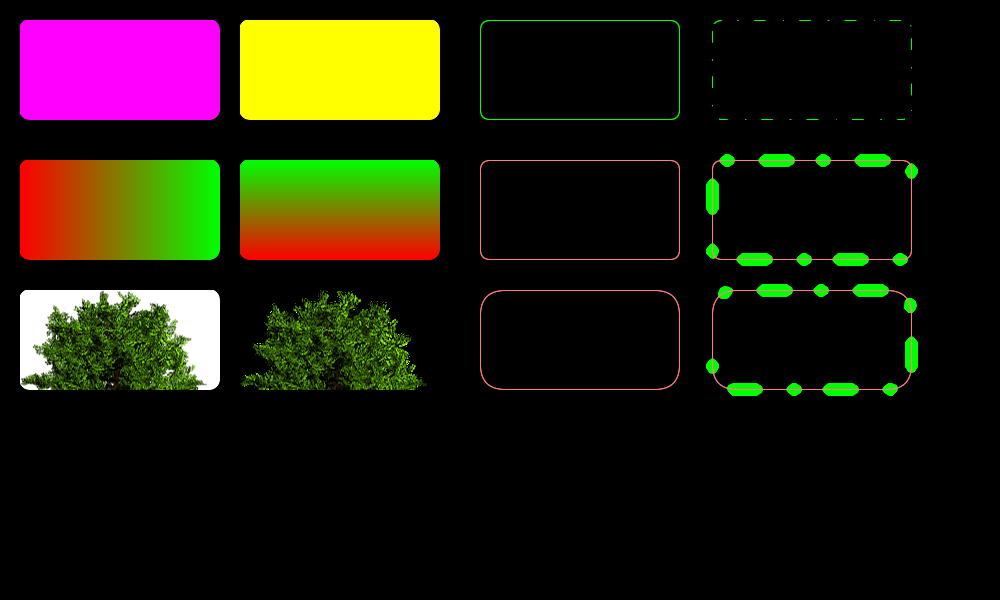
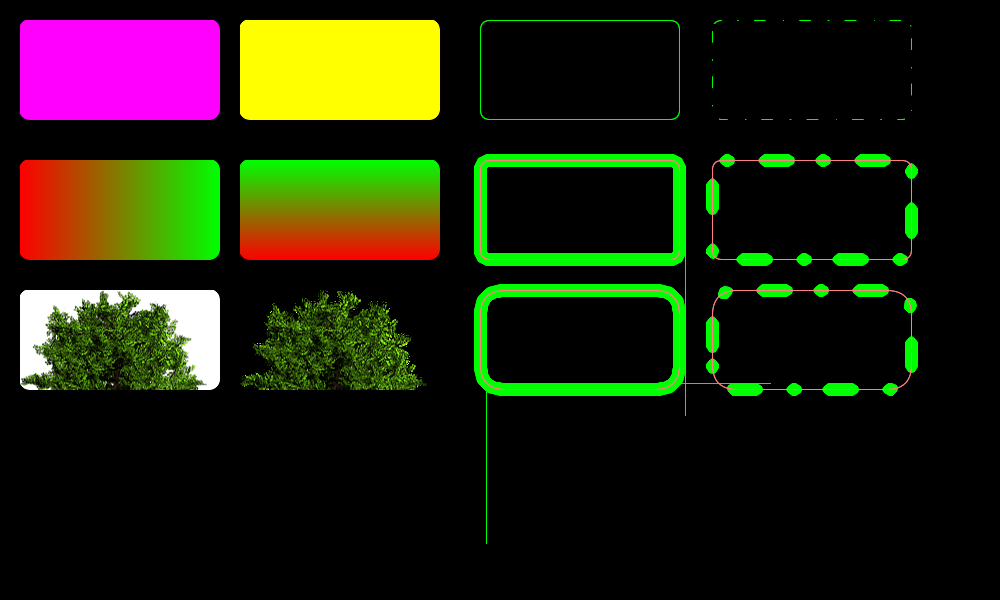
Working on patterned thick lines

Changed region(s): [[0.465, 0.24, 0.744, 0.66], [0.899, 0.33, 0.93, 0.39]]

diff --git a/src/Pt-Gfx/ImagePainter2.cpp b/src/Pt-Gfx/ImagePainter2.cpp
@@ -94,9 +94,23 @@ static inline bool intersectLine(bool& inLine, PointF& intersect, const PointF& 
     const float b2    = x21 - x22;
     const float c2    = -(x21 * y22 - x22 * y21);
 
-    // Check if there is intersection
+    // Check if the line is parallel
     const float denom = a1 * b2 - a2 * b1;
-    if(denom == 0.0f) return false;
+    if(denom == 0.0f) {
+        // Check for special cases
+        if(y11 == y12 && y11 == y21 && y11 == y22 && x12 == x21) {
+            intersect.set(x12, y11);
+            inLine = true;
+            return true;
+        }
+        if(x11 == x12 && x11 == x21 && x11 == x22 && y12 == y21) {
+            intersect.set(x11, y12);
+            inLine = false;
+            return true;
+        }
+        // No intersection
+        return false;
+    }
 
     // Calculate the intersection point
     const float idenom = 1.0f / denom;
@@ -294,9 +308,8 @@ static inline bool bboxDetectPolygonIntersection(const PointF* poly1, size_t pol
 
 static inline bool detectPolygonIntersection(const PointF* poly1, size_t poly1Count, const PointF* poly2, size_t poly2Count)
 {
-    //  return false;
-    //return bboxDetectPolygonIntersection (poly1, poly1Count, poly2, poly2Count);
-    return satDetectPolygonIntersection  (poly1, poly1Count, poly2, poly2Count);
+    return bboxDetectPolygonIntersection (poly1, poly1Count, poly2, poly2Count);
+    //return satDetectPolygonIntersection  (poly1, poly1Count, poly2, poly2Count);
     //return naiveDetectPolygonIntersection(poly1, poly1Count, poly2, poly2Count);
 }
 
@@ -330,6 +343,7 @@ static inline void generateQuadraticBezierPoints(std::vector<PointF>& dst, float
     const float nSegs1 = 1.0f / (nSegs - 1);
 
     for(Pt::int32_t i = 0; i < nSegs; ++i) {
+        // Calculate the coordinates
         const float t  = i * nSegs1;
         const float it = 1.0f - t;
         const float a  = it * it;
@@ -337,7 +351,10 @@ static inline void generateQuadraticBezierPoints(std::vector<PointF>& dst, float
         const float c  = t * t;
         const float x  = a * x1 + b * x2 + c * x3;
         const float y  = a * y1 + b * y2 + c * y3;
-        if( dst.empty() || dst.back().x() != x || dst.back().y() != y ) dst.push_back( PointF(x, y) );
+        // Check if the coordinate is the same with the previous one
+        if( !dst.empty() && ( dst.back().x() == x && dst.back().y() == y ) ) continue;
+        // Store the coordinate
+        dst.push_back( PointF(x, y) );
     }
 }
 
@@ -796,8 +813,6 @@ void ImagePainter2::drawRoundRect( const RectF& rect, float radius )
     const float x2 = rect.bottomRight().x();
     const float y2 = rect.bottomRight().y();
 
-    // ### TODO: Missing pattern !!! ###
-
     // Generate a polygon that represents the rounded-rectangle
     std::vector<PointF> pointsF;
     generateRoundRectPoints(pointsF, x1, y1, x2, y2, radius, _rasterizer->pen().size());
@@ -810,7 +825,7 @@ void ImagePainter2::drawRoundRect( const RectF& rect, float radius )
 
     // Draw the polygon
     _rasterizer->setPen(newPen);
-    drawThickPolyline_impl(pointsF.data(), pointsF.size(), false, 0);
+    drawThickPolyline_impl(pointsF.data(), pointsF.size(), true, 0);
     _rasterizer->setPen(orgPen);
 }
 
@@ -1784,17 +1799,18 @@ bool ImagePainter2::sagPolygonPoints(SAGOpState& state, bool draw)
                 thickenSolidOpenPolygon(dstPoints, state.gather.data(), state.gather.size(), 0);
                 //lprintf("    Poly Draw : patSegLen = %5.1f ; remLen = %5.1f ; point count = %zd\n", state.patSegLen, state.remLen, state.gather.size());
 
+                if(dstPoints.size() >= 2) {
                 // Check for intersection with the first polygons in the final destination buffer
                 bool intersect = false;
                 if(state.dstPCount0) {
-                    intersect = detectPolygonIntersection(&state.dstPoints[0], state.dstPCount0, dstPoints.data(), dstPoints.size());
+                  //  intersect = detectPolygonIntersection(&state.dstPoints[0], state.dstPCount0, dstPoints.data(), dstPoints.size());
                 }
                 else {
                     state.dstPCount0 = dstPoints.size();
                 }
                 // Check for intersection with the previous polygons in the final destination buffer
                 if(!intersect && state.dstPCount && state.dstPStart) {
-                    intersect = detectPolygonIntersection(&state.dstPoints[state.dstPStart], state.dstPCount,  dstPoints.data(), dstPoints.size());
+                    //intersect = detectPolygonIntersection(&state.dstPoints[state.dstPStart], state.dstPCount,  dstPoints.data(), dstPoints.size());
                 }
                 if(!intersect) {
                     state.dstPStart = state.dstPoints.size();
@@ -1809,6 +1825,7 @@ bool ImagePainter2::sagPolygonPoints(SAGOpState& state, bool draw)
                     }
                     // Copy the points
                     state.dstPoints.insert(state.dstPoints.end(), dstPoints.begin(), dstPoints.end());
+                }
                 }
             }
             //else {
@@ -1918,6 +1935,7 @@ void ImagePainter2::sagGenerateSimpleLineSegment(SAGOpState& state, float x1, fl
         default                    : generateLineButtCap         (dstPoints, x2, y2,               -nx, -ny); break;
     }
 
+    //*
     // Check for intersection with the first polygons in the final destination buffer
     if(state.dstPCount0) {
         if( detectPolygonIntersection(
@@ -1928,7 +1946,6 @@ void ImagePainter2::sagGenerateSimpleLineSegment(SAGOpState& state, float x1, fl
         state.dstPCount0 = dstPoints.size();
     }
 
-
     // Check for intersection with the previous polygons in the final destination buffer
     if(state.dstPCount && state.dstPStart) {
         if( detectPolygonIntersection(
@@ -1937,6 +1954,7 @@ void ImagePainter2::sagGenerateSimpleLineSegment(SAGOpState& state, float x1, fl
     }
     state.dstPStart = state.dstPoints.size();
     state.dstPCount = dstPoints.size();
+//*/
 
     // Add polygon separator point as needed
     if(!state.dstPoints.empty()) {

diff --git a/src/Pt-Gfx/tests/ImagePainterTest2.cpp b/src/Pt-Gfx/tests/ImagePainterTest2.cpp
@@ -68,7 +68,7 @@ using namespace Pt::Gfx;
 
 // General settings for Pt-Gfx
 #define DO_TEST_DRAW    1
-#define DO_BENCHMARKING 1
+#define DO_BENCHMARKING 0
 
 // Detailed-test enable settings for Pt-Gfx
 #define TEST_SOURCECOPY                         1
@@ -83,7 +83,7 @@ using namespace Pt::Gfx;
 #define TEST_DRAW_ROUND_OMPF_RECTANGLES         1 // (including thick and filled) // ### TODO: Missing pattern !!! ###
 #define TEST_DRAW_ELLIPSES_ARCS                 0
 #define TEST_DRAW_SOLID_THICK_ELLIPSES_ARCS     0
-#define TEST_DRAW_PATTERNED_THICK_ELLIPSES_ARCS 1                                 // ### TODO: Extra lines !!! ###
+#define TEST_DRAW_PATTERNED_THICK_ELLIPSES_ARCS 0                                 // ### TODO: Extra lines !!! ###
 
 #define TEST_DRAW_SOLID_FILLED_POLYGONS         0
 #define TEST_DRAW_GRADIENT_FILLED_POLYGONS      0
